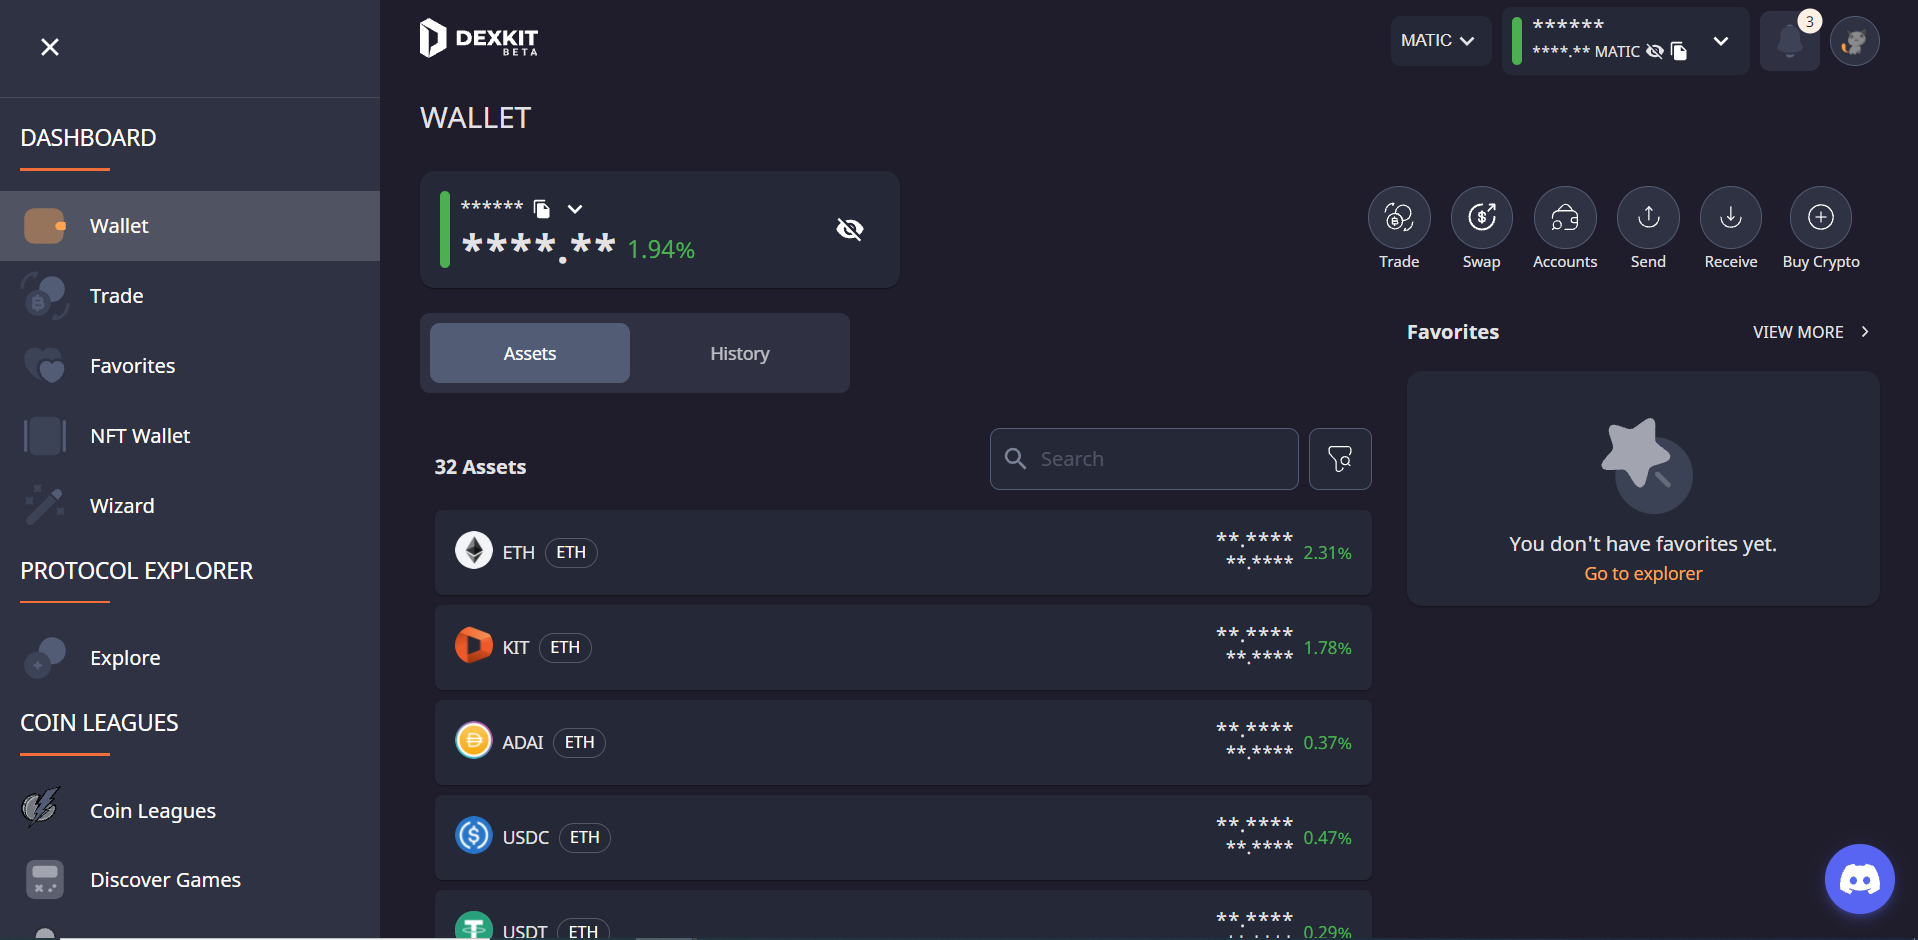
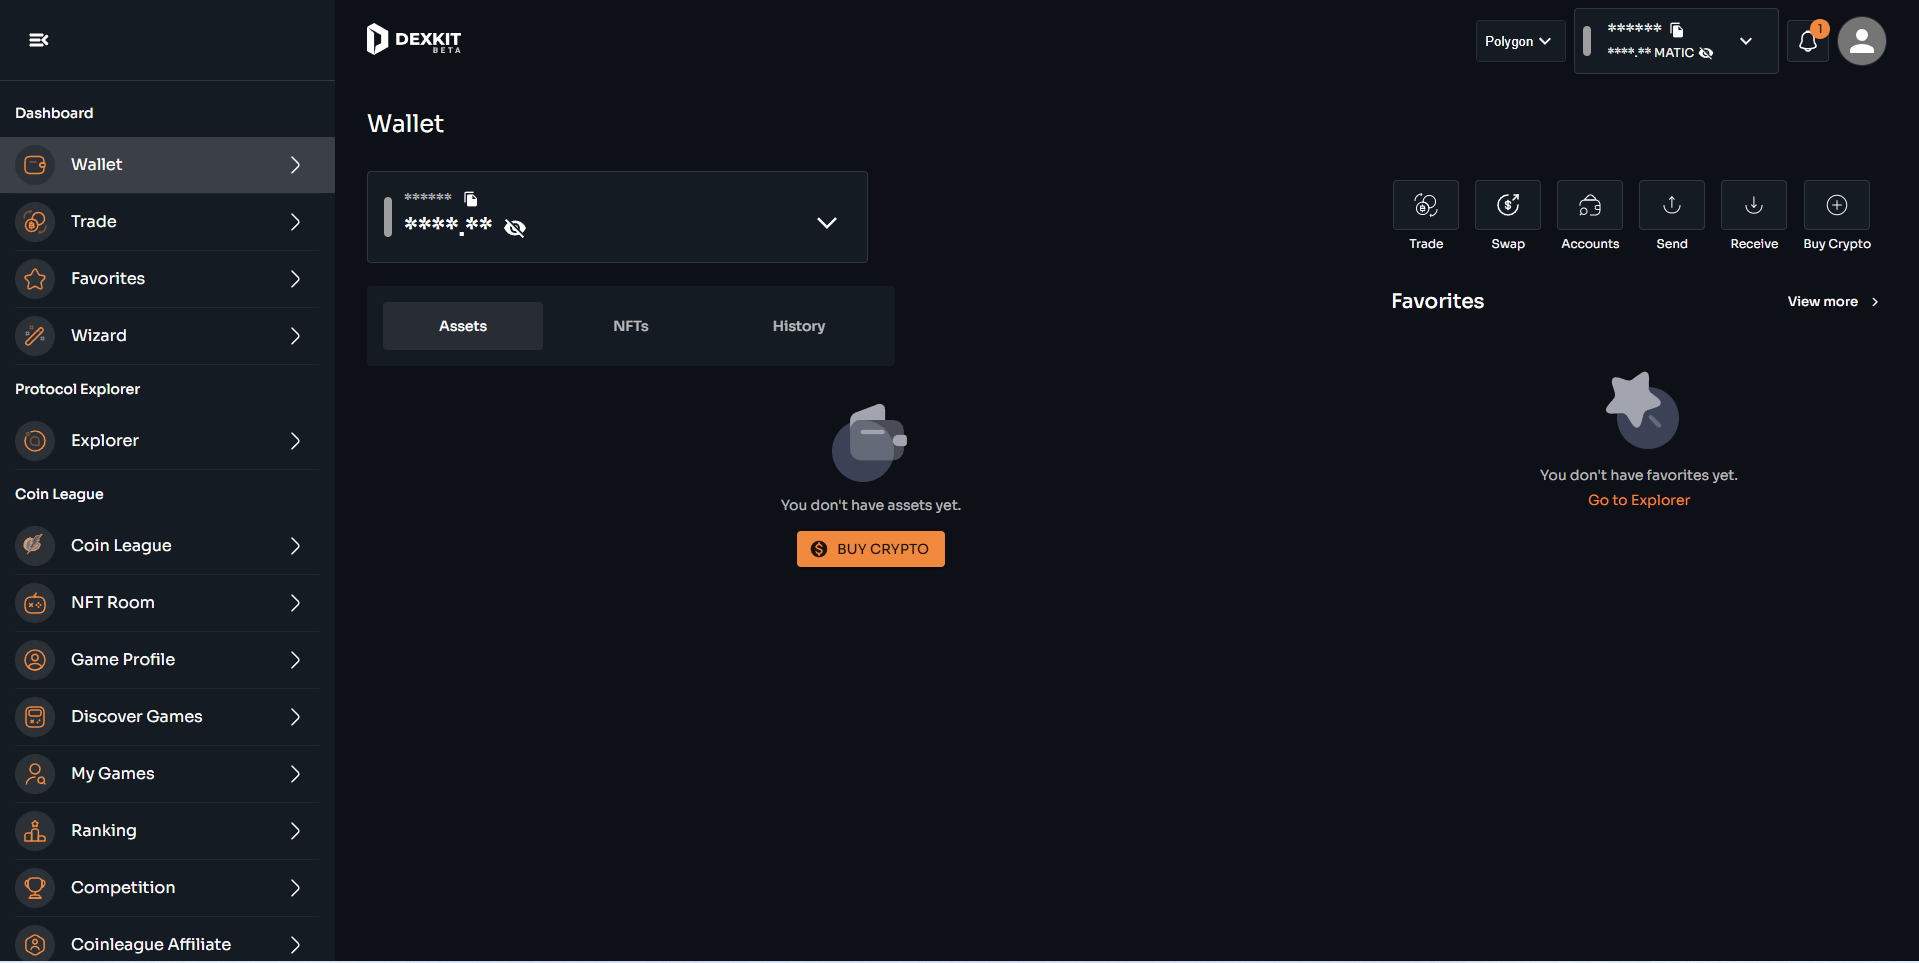
put feedbacks standard

diff --git a/src/modules/NFTLeague/pages/CreateGame.tsx b/src/modules/NFTLeague/pages/CreateGame.tsx
@@ -103,7 +103,7 @@ export const NFTLeagueCreateGamePage = () => {
 
   const [transactionHash, setTransactionHash] = useState<string>();
 
-  const {messages} = useIntl();
+  const {messages, formatMessage} = useIntl();
 
   const handleClearError = useCallback(() => {
     setErrorMessage(undefined);
@@ -322,7 +322,10 @@ export const NFTLeagueCreateGamePage = () => {
                 <Grid item xs={12} container spacing={4}>
                   <Grid item xs={12} sm={4}>
                     <TextField
-                      label={messages['nftLeague.entryAmount'] as string}
+                      label={formatMessage({
+                        id: 'nftLeague.entryAmount',
+                        defaultMessage: 'Entry amount (Matic)',
+                      })}
                       fullWidth
                       value={formik.values.entryAmount}
                       onChange={formik.handleChange}
@@ -342,7 +345,10 @@ export const NFTLeagueCreateGamePage = () => {
                         <IntlMessages id='nftLeague.duration' />
                       </InputLabel>
                       <Select
-                        label={messages['nftLeague.duration'] as string}
+                        label={formatMessage({
+                          id: 'nftLeague.duration',
+                          defaultMessage: 'Duration',
+                        })}
                         fullWidth
                         value={formik.values.duration}
                         onChange={formik.handleChange}

diff --git a/src/modules/History/TradeAllHistory/OrderTable/index.tsx b/src/modules/History/TradeAllHistory/OrderTable/index.tsx
@@ -5,7 +5,6 @@ import {
   Table,
   TableHead,
   TableBody,
-  Paper,
   TablePagination,
   Typography,
 } from '@material-ui/core';
@@ -43,26 +42,27 @@ const TransactionTable: React.FC<Props> = ({
   if (data && data.length === 0) {
     return (
       <Box py={4}>
-        <Paper>
-          <Box py={4}>
-            <Grid
-              container
-              spacing={4}
-              alignItems='center'
-              alignContent='center'
-              justifyContent='center'
-              direction='column'>
-              <Grid item>
-                <WalletEmptyImage />
-              </Grid>
-              <Grid item>
-                <Typography variant='h5' align='center'>
-                  <IntlMessages id='app.wallet.youDontHaveTradesYet' />
-                </Typography>
-              </Grid>
+        <Box py={4}>
+          <Grid
+            container
+            spacing={4}
+            alignItems='center'
+            alignContent='center'
+            justifyContent='center'
+            direction='column'>
+            <Grid item>
+              <WalletEmptyImage />
             </Grid>
-          </Box>
-        </Paper>
+            <Grid item>
+              <Typography
+                variant='body2'
+                align='center'
+                color={'textSecondary'}>
+                <IntlMessages id='app.wallet.youDontHaveTradesYet' />
+              </Typography>
+            </Grid>
+          </Grid>
+        </Box>
       </Box>
     );
   }

diff --git a/src/modules/routesConfig.tsx b/src/modules/routesConfig.tsx
@@ -171,7 +171,7 @@ const useRoutesConfig = (): NavItemProps[] => {
           icon: 'judge',
           url: `${COINSLEAGUE_ROUTE}/champions/event`,
         },*/
-        {
+        /*  {
           id: 'coinleague.how-to-play',
           title: 'How To Play',
           messageId: 'sidebar.howToPlay',
@@ -179,7 +179,7 @@ const useRoutesConfig = (): NavItemProps[] => {
           customIcon: true,
           icon: 'question',
           url: `${COINSLEAGUE_ROUTE}/how-to-play`,
-        },
+        },*/
         {
           id: 'coinleague.affiliate',
           title: 'Coinleague Affiliate',
@@ -200,7 +200,7 @@ const useRoutesConfig = (): NavItemProps[] => {
         },
       ],
     },
-    {
+    /*  {
       id: 'squidLeague',
       title: 'SquidLeague',
       messageId: 'sidebar.squidLeague',
@@ -234,7 +234,7 @@ const useRoutesConfig = (): NavItemProps[] => {
           url: '/squid-league/my-games',
         },
       ],
-    },
+    },*/
     {
       id: 'nftLeague',
       title: 'NftLeague',

diff --git a/src/modules/History/TransferList/TransferTable/index.tsx b/src/modules/History/TransferList/TransferTable/index.tsx
@@ -58,10 +58,10 @@ const TransferTable: React.FC<Props> = ({
         </TableContainer>
         {data && data.length === 0 && (
           <Typography
-            variant='h5'
+            variant='body2'
+            color={'textSecondary'}
             display={'block'}
-            align={'center'}
-            color={'primary'}>
+            align={'center'}>
             You don't have made transfers with this wallet yet
           </Typography>
         )}
@@ -107,7 +107,7 @@ const TransferTable: React.FC<Props> = ({
             <WalletEmptyImage />
           </Grid>
           <Grid item>
-            <Typography variant='h5' align='center'>
+            <Typography variant='body2' align='center' color={'textSecondary'}>
               <IntlMessages id='app.wallet.youDontHaveTransfersYet' />
             </Typography>
           </Grid>

diff --git a/src/modules/Dashboard/Favorites/index.tsx b/src/modules/Dashboard/Favorites/index.tsx
@@ -71,19 +71,9 @@ export const Favorites = () => {
             <ArrowBackIcon />
           </IconButton>
         </Box>
-        <Grid container>
-          <Grid item xs={12}>
-            <Box
-              display='flex'
-              alignItems='center'
-              alignContent='center'
-              flexDirection={'column'}>
-              <Typography variant='h5'>
-                <IntlMessages id='app.common.favorites' />
-              </Typography>
-            </Box>
-          </Grid>
-        </Grid>
+        <Typography variant='h5'>
+          <IntlMessages id='app.common.favorites' />
+        </Typography>
       </Box>
       <Grid container spacing={4}>
         <Grid item xs={12}>

diff --git a/src/modules/Dashboard/Favorites/FavoriteCoinsList/index.tsx b/src/modules/Dashboard/Favorites/FavoriteCoinsList/index.tsx
@@ -50,7 +50,11 @@ const FavoriteCoinsList: React.FC<FavoriteCoinsListProps> = ({
                   justifyContent='center'>
                   <FavoritesEmptyImage />
                 </Box>
-                <Typography gutterBottom variant='body1' align='center'>
+                <Typography
+                  gutterBottom
+                  variant='body2'
+                  align='center'
+                  color={'textSecondary'}>
                   <IntlMessages id='app.dashboard.dontHaveFavorites' />
                 </Typography>
                 <Typography variant='body2' align='center' color='primary'>

diff --git a/src/@crema/core/AppLayout/MiniSidebarToggle/AppHeader.tsx b/src/@crema/core/AppLayout/MiniSidebarToggle/AppHeader.tsx
@@ -296,7 +296,7 @@ const AppHeader: React.FC<AppHeaderProps> = () => {
                         to='/profile'
                         component={RouterLink}>
                         <Avatar
-                          className={classes.avatar}
+                          classes={{fallback: classes.fallback}}
                           src={
                             account && chainId
                               ? kittygotchiProfile.getDefault(account, chainId)

diff --git a/src/modules/Dashboard/components/tabs/NftsTab.tsx b/src/modules/Dashboard/components/tabs/NftsTab.tsx
@@ -533,7 +533,10 @@ export const NftsTab: React.FC = () => {
                 </Box>
               </Grid>
               <Grid item xs={12}>
-                <Typography align='center' variant='h5'>
+                <Typography
+                  align='center'
+                  variant='body2'
+                  color={'textSecondary'}>
                   <IntlMessages id='nfts.wallet.noItemsFound' />
                 </Typography>
               </Grid>

diff --git a/src/shared/components/Empty/index.tsx b/src/shared/components/Empty/index.tsx
@@ -28,10 +28,10 @@ export const Empty = (props: Props) => {
         </Grid>
         <Grid item xs={12}>
           <Typography
-            style={{textTransform: 'uppercase'}}
             gutterBottom
             align='center'
-            variant='h5'>
+            variant='body2'
+            color={'textSecondary'}>
             {title}
           </Typography>
           <Typography align='center'>{message}</Typography>

diff --git a/src/@crema/core/AppLayout/MiniSidebarToggle/AppSidebar.style.tsx b/src/@crema/core/AppLayout/MiniSidebarToggle/AppSidebar.style.tsx
@@ -18,9 +18,14 @@ const useStyles = makeStyles((theme: CremaTheme) => {
       },
     },
     avatar: {
-      backgroundColor: theme.palette.background.paper,
+      borderColor: theme.palette.divider,
       width: theme.spacing(12),
       height: theme.spacing(12),
+    },
+    fallback: {
+      '& path': {
+        fill: theme.palette.text.primary,
+      },
     },
     avatarButton: {
       borderRadius: '50%',

diff --git a/src/shared/components/WalletInfo/index.tsx b/src/shared/components/WalletInfo/index.tsx
@@ -270,7 +270,7 @@ const WalletInfo: React.FC<Props> = (props) => {
                 <Box mr={1}>
                   {tokenSymbol && (
                     <Typography variant='caption'>
-                      {ethBalanceValue
+                      {ethBalanceValue !== undefined
                         ? isBalanceVisible
                           ? ethBalanceValue.toFixed(4)
                           : '****.**'

diff --git a/src/modules/Onboarding/pages/LoginWallet.tsx b/src/modules/Onboarding/pages/LoginWallet.tsx
@@ -292,7 +292,7 @@ export const LoginWallet = (props: Props) => {
                   </Grid>
                 </Box>
               </Grid>
-              {account && (
+              {false && (
                 <Grid item xs={12}>
                   <Alert severity='info' variant='outlined'>
                     <Typography variant='body1'>
